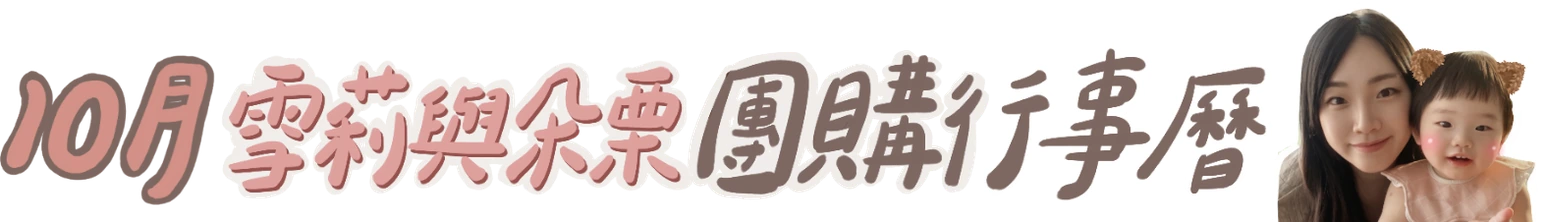
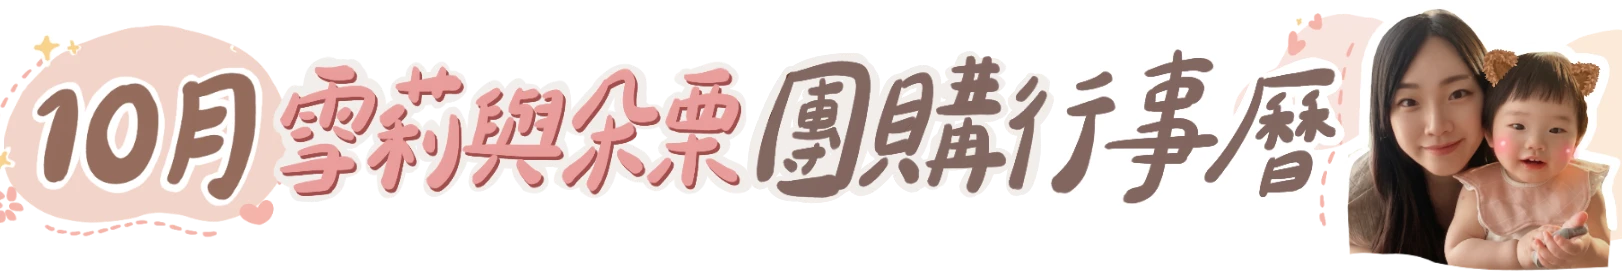
行事曆圖產生器：10月壓扁版標題圖換新版

diff --git a/calendar-poster.html b/calendar-poster.html
@@ -1673,7 +1673,7 @@ function titleImgSrc() {
   const mm = String(currentMonth + 1).padStart(2, '0');
   const slim = (S.mode === 'list' && visibleGroups('list').length > 24);
   // ?v= 換標題圖時改日期，避免瀏覽器快取到舊圖
-  return `images/calendar/title-${mm}${slim ? '-slim' : ''}.webp?v=20260930`;
+  return `images/calendar/title-${mm}${slim ? '-slim' : ''}.webp?v=20260930b`;
 }
 
 function buildHead() {
